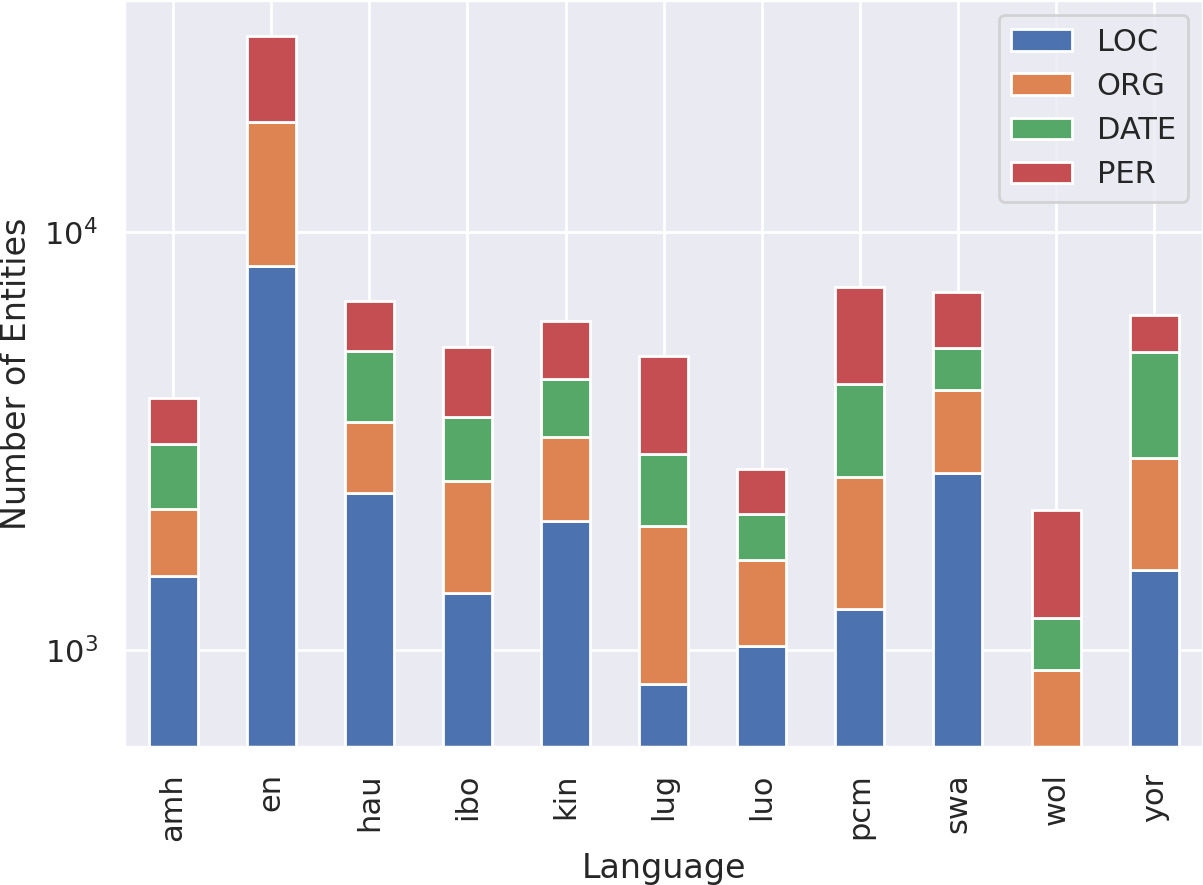
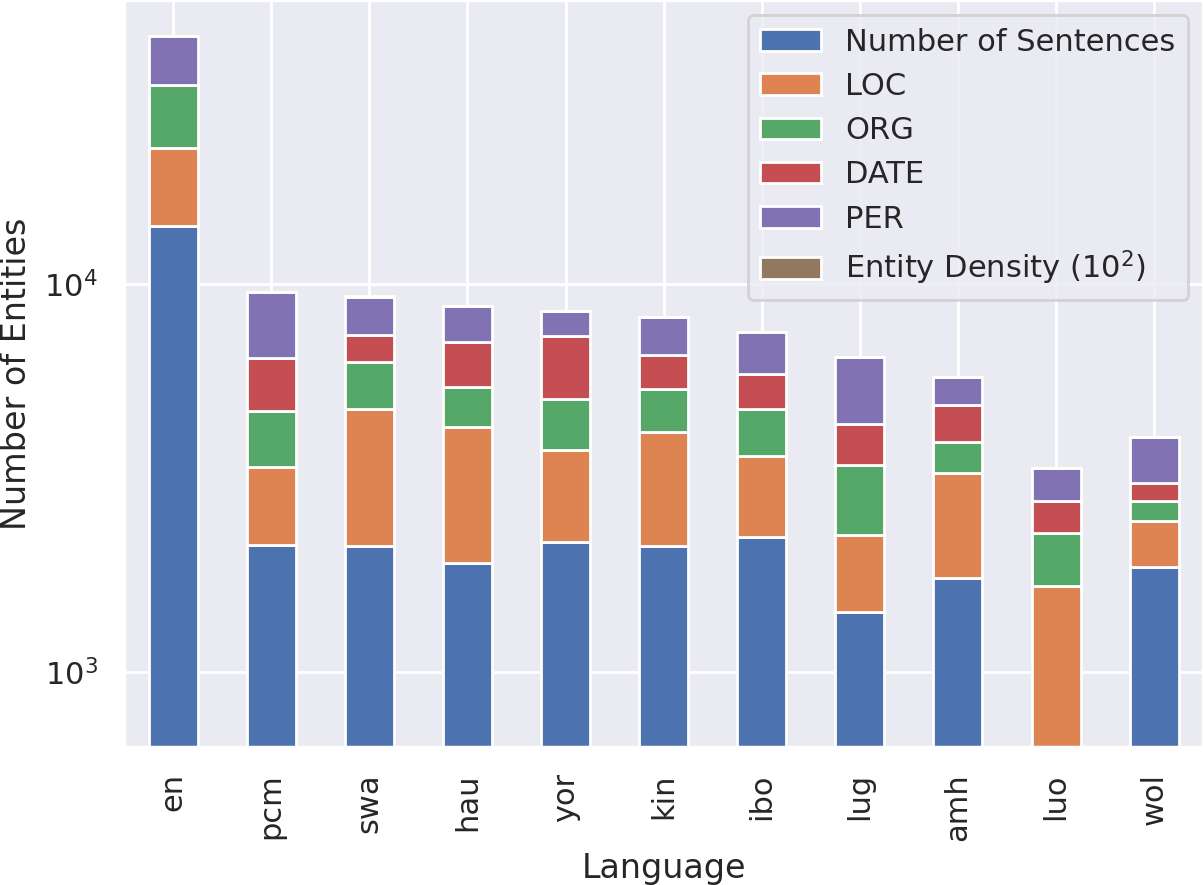
good stuff

diff --git a/analysis/number_entities.tex b/analysis/number_entities.tex
@@ -1,17 +1,17 @@
-\begin{tabular}{lrrrrr}
+\begin{tabular}{lrrrrrrr}
 \toprule
-{} &   LOC &    ORG &  DATE &    PER &  Total \\
+{} &  Number of Sentences &   LOC &    ORG &  DATE &    PER &  Total Entities &  Entity Density \$(10\textasciicircum 2)\$ \\
 \midrule
-amh &  1506 &    662 &   944 &    883 &   3995 \\
-en  &  8297 &  10025 &     0 &  11128 &  29450 \\
-hau &  2379 &   1124 &  1683 &   1650 &   6836 \\
-ibo &  1365 &   1167 &  1077 &   1685 &   5294 \\
-kin &  2030 &   1209 &  1212 &   1653 &   6104 \\
-lug &   829 &   1152 &   959 &   2099 &   5039 \\
-luo &  1023 &    615 &   478 &    588 &   2704 \\
-pcm &  1256 &   1329 &  1737 &   3070 &   7392 \\
-swa &  2656 &   1522 &  1085 &   1898 &   7161 \\
-wol &   587 &    308 &   300 &    962 &   2157 \\
-yor &  1557 &   1327 &  2280 &   1160 &   6324 \\
+en  &                14042 &  8297 &  10025 &     0 &  11128 &           29450 &                     6.92 \\
+pcm &                 2124 &  1256 &   1329 &  1737 &   3070 &            7392 &                     5.14 \\
+swa &                 2109 &  2656 &   1522 &  1085 &   1898 &            7161 &                     5.38 \\
+hau &                 1912 &  2379 &   1124 &  1683 &   1650 &            6836 &                     5.15 \\
+yor &                 2171 &  1557 &   1327 &  2280 &   1160 &            6324 &                     3.76 \\
+kin &                 2116 &  2030 &   1209 &  1212 &   1653 &            6104 &                     5.15 \\
+ibo &                 2235 &  1365 &   1167 &  1077 &   1685 &            5294 &                     6.22 \\
+lug &                 1428 &   829 &   1152 &   959 &   2099 &            5039 &                     5.70 \\
+amh &                 1750 &  1506 &    662 &   944 &    883 &            3995 &                     6.88 \\
+luo &                  644 &  1023 &    615 &   478 &    588 &            2704 &                     4.87 \\
+wol &                 1871 &   587 &    308 &   300 &    962 &            2157 &                     2.76 \\
 \bottomrule
 \end{tabular}

diff --git a/scripts/plot_graphs.py b/scripts/plot_graphs.py
@@ -210,18 +210,31 @@ def plot_dataset_stats():
                         if l == 'O': continue
                         stats[l.split("-")[-1]] += 1
                         # stats['Total'] += 1
-                stats = dict(stats)
+                num_words = sum([len(ex.words) for ex in examples])
+                labels = list(map(lambda x: [label.split('-')[-1] for label in x.labels if label != 'O'], examples))
+                num_labels = sum([len(np.unique(l)) for l in labels])
+                stats = {
+                    "Number of Sentences": len(examples),
+                    "num_labels": num_labels,
+                    "num_words": num_words,
+                    **stats,
+                }
                 if lang == 'conll_2003_en': lang = 'en'
                 df[lang] = stats
                 print(f"{lang:<10} {li[0]} {stats}")
     df = pd.DataFrame(df)
     df = df.T
-    df['Total'] = df['LOC'] + df['ORG'] + df['DATE'].fillna(0) + df['PER']
+    df['Total Entities'] = df['LOC'] + df['ORG'] + df['DATE'].fillna(0) + df['PER']
     df = df.fillna(0).astype(np.int32)
+    # df["Entity Density"] = df["Entity Density"].astype(np.float32)
+    df["Entity Density $(10^2)$"] = round((df["num_labels"] * 100)/df["num_words"], 2)
+    df = df.drop("num_labels", axis=1)
+    df = df.drop("num_words", axis=1)
+    df = df.sort_values('Total Entities', ascending=False)
     print(df)
     df.to_latex("analysis/number_entities.tex")
     # sns.barplot(df, x='lang', 
-    df = df.drop('Total', axis=1)
+    df = df.drop('Total Entities', axis=1)
     df.plot(kind='bar', stacked=True)
     plt.xlabel('Language')
     plt.ylabel("Number of Entities")
@@ -275,6 +288,11 @@ def plot_entity_frequency():
     
     plt.show()
 if __name__ == '__main__':
+<<<<<<< HEAD
     main(True)
     # plot_dataset_stats()
+=======
+    # main(True)
+    plot_dataset_stats()
+>>>>>>> 420d2900 (good)
     # plot_entity_frequency()

diff --git a/scripts/get_data_stats.py b/scripts/get_data_stats.py
@@ -1,0 +1,35 @@
+import glob
+import numpy as np
+
+from ner.dataset import read_examples_from_file
+
+# name,number_of_sentences,ner_density
+# pcm,2124,0.051440955060451675
+# en,14042,0.06918245171175862
+# lug,1428,0.05699481865284974
+# luo,644,0.04866232437960919
+# wol,1871,0.027577774758864283
+# amh,1750,0.06883735336249952
+# ibo,2235,0.06219714880966315
+# hau,1912,0.0514815488093074
+# swa,2109,0.05378186893761374
+# kin,2116,0.051531975288028053
+# yor,2171,0.03763727476276789
+
+def main():
+    
+    data_path = "data/original/1/*"
+    print("name,number_of_sentences,ner_density")
+    for folder in glob.glob(data_path):
+        name = folder.split("/")[-1]
+        if name == "conll_2003_en":
+            name = "en"
+        examples = read_examples_from_file(folder, "train")
+        num_words = sum([len(ex.words) for ex in examples])
+        labels = list(map(lambda x: [label.split('-')[-1] for label in x.labels if label != 'O'], examples))
+        num_labels = sum([len(np.unique(l)) for l in labels])
+        print(f"{name},{len(examples)},{num_labels/num_words}")
+        
+        
+if __name__ == "__main__":
+    main()
